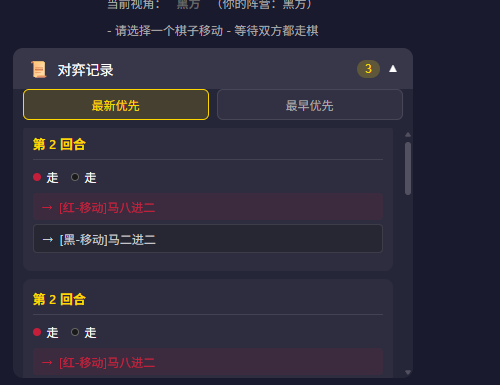
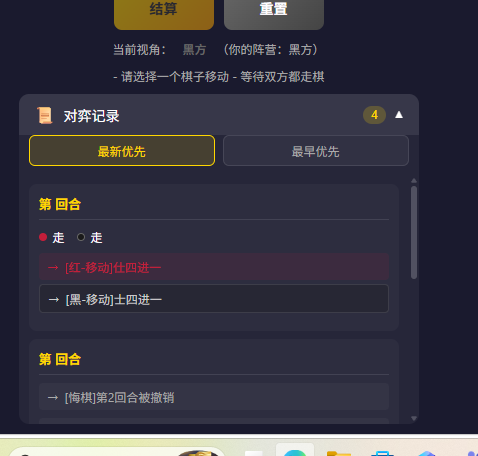
fix: 同步修复服务端联机模式的logicRound和gameRound计算

diff --git a/server/gameState.ts b/server/gameState.ts
@@ -618,12 +618,18 @@ const executeSettlement = (room: GameRoom): void => {
   };
   
   // 保存结算前的快照（用于悔棋）
-  const currentLogicRound = room.logicRound;
-  // 游戏回合 = 非悔棋记录的结算次数 + 1
-  const gameRoundCount = room.roundHistory.filter(
-    entry => !entry.events.some(e => e.description.includes('悔棋'))
-  ).length;
-  const currentGameRound = gameRoundCount + 1;
+  // logicRound 应该基于 roundHistory.length（累积的记录数）
+  const currentLogicRound = room.roundHistory.length;
+  
+  // gameRound 计算逻辑：
+  // - 如果有悔棋记录，说明有回合被撤销了，新走的应该重新走被撤销的那个回合
+  // - 如果没有悔棋记录，基于非悔棋记录数计算新的回合号
+  const lastUndoEntry = [...room.roundHistory].reverse().find(
+    entry => entry.events.some(e => e.description.includes('悔棋'))
+  );
+  const currentGameRound = lastUndoEntry 
+    ? lastUndoEntry.gameRound  // 使用被撤销的回合号
+    : room.roundHistory.filter(entry => !entry.events.some(e => e.description.includes('悔棋'))).length + 1;
   
   const snapshot: HistorySnapshot = {
     pieces: room.pieces.map(p => ({ ...p })),
@@ -658,16 +664,13 @@ const executeSettlement = (room: GameRoom): void => {
     entry => entry.gameRound === currentGameRound && !entry.events.some(e => e.description.includes('悔棋'))
   );
   
-  // logicRound 递增
-  room.logicRound = currentLogicRound + 1;
-  
   // 保存快照
   room.historySnapshots.push(snapshot);
   
   // 保存历史记录
   const historyEntry: RoundHistoryEntry = {
     ...result.historyEntry,
-    logicRound: room.logicRound,
+    logicRound: currentLogicRound,
     gameRound: currentGameRound,
   };
   room.roundHistory.push(historyEntry);
@@ -818,12 +821,11 @@ const executeUndo = (room: GameRoom): void => {
   // 移除最后一个快照
   room.historySnapshots.pop();
   
-  // 递增 logicRound
-  room.logicRound++;
-  
   // 添加悔棋记录（使用 logicRound 排序，显示 gameRound）
+  // logicRound = roundHistory.length（在 push 之前），确保唯一且递增
+  const undoLogicRound = room.roundHistory.length;
   const undoEntry: RoundHistoryEntry = {
-    logicRound: room.logicRound,
+    logicRound: undoLogicRound,
     gameRound: lastSnapshot.gameRound,
     redAction: null,
     blackAction: null,
